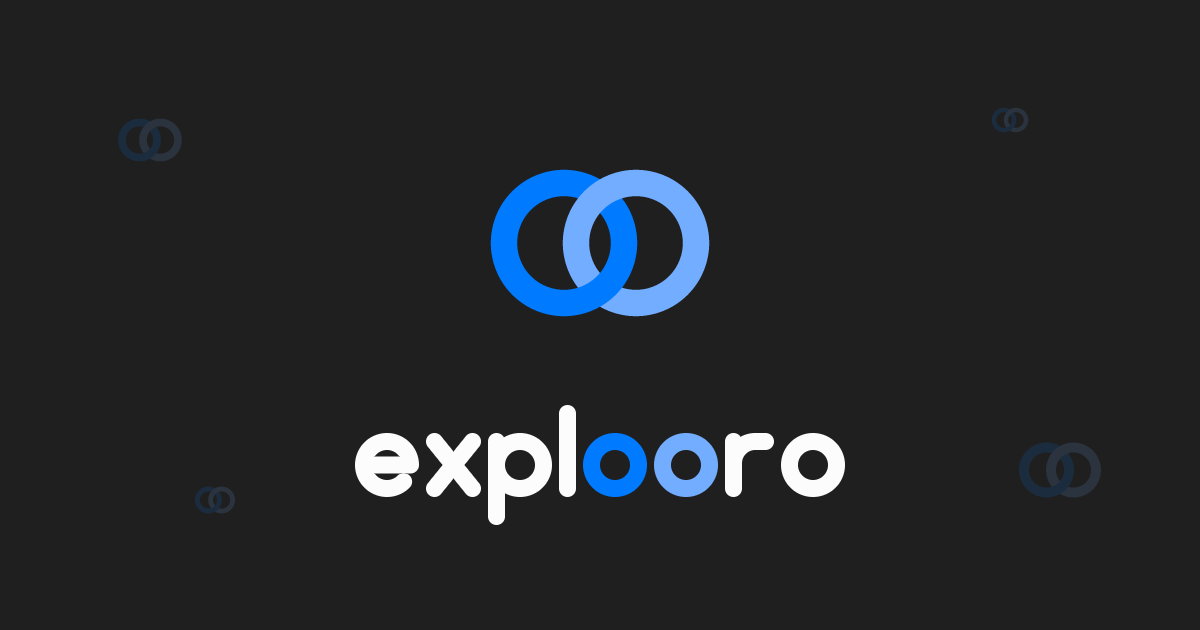
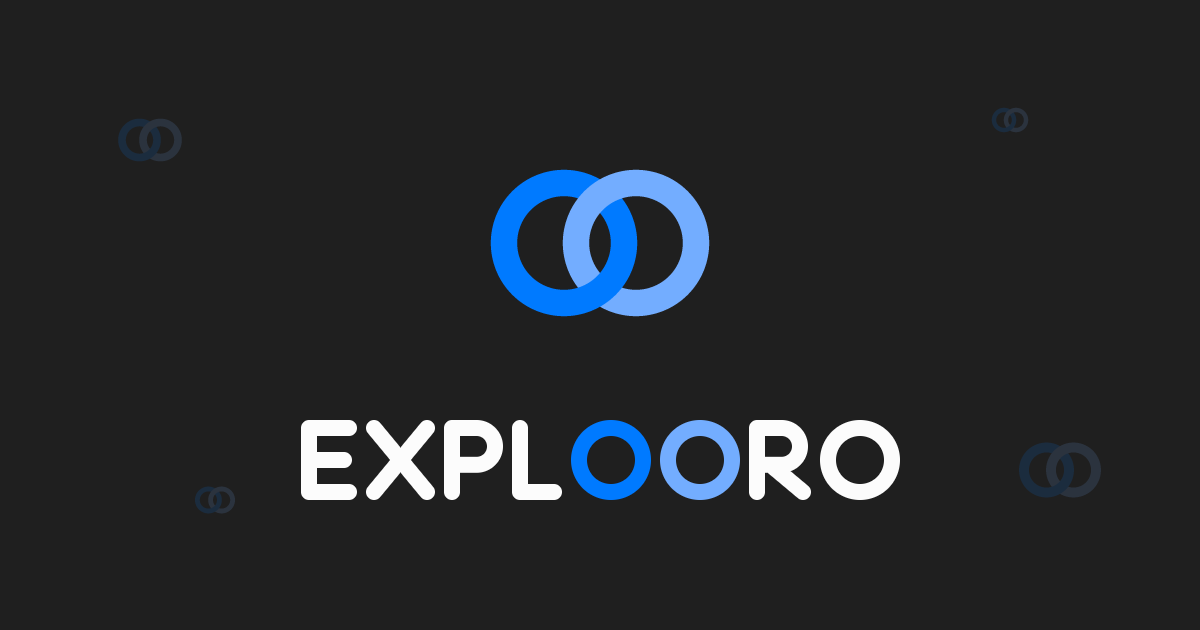
feat(brand): wordmark is capital EXPLOORO in Poppins 700
The owner compared capital and lowercase on packaging mock-ups and chose
capitals: a capital O is a full-height circle, so the "OO" matches the
ring mark in size, where a lowercase o was only the x-height. The font
subset now holds the six capitals (888 bytes), the topbar keeps 20px
(O 16px beside 17px rings), and the link-preview banner is redrawn in
capitals. Screen readers still hear "Explooro" once.

Changed region(s): [[0.2467, 0.6333, 0.7708, 0.8444]]

diff --git a/client/src/components/ui/icons.ts b/client/src/components/ui/icons.ts
@@ -256,8 +256,10 @@ export function getExplooroLogoSvg({ size = 28, className = 'explooro-logo-mark'
 }
 
 /**
- * The Explooro wordmark: lowercase "explooro" in Poppins 700 (the 'Explooro Wordmark' face in
- * typography.css), its "oo" in the two ring colours of the mark beside it. Text after the name
+ * The Explooro wordmark: capital "EXPLOORO" in Poppins 700 (the 'Explooro Wordmark' face in
+ * typography.css), its "OO" in the two ring colours of the mark beside it. WHY capitals (owner
+ * chose them over lowercase 2026-11-20): a capital O is a full-height circle, so the "OO" matches
+ * the rings in size; a lowercase o is only the x-height and the rings read as a separate badge. Text after the name
  * ("Explooro Staff 2FA") stays in the page's own font.
  *
  * WHY role="img" with a label and the letters aria-hidden (owner chose the design 2026-11-20): the
@@ -266,7 +268,7 @@ export function getExplooroLogoSvg({ size = 28, className = 'explooro-logo-mark'
  */
 export function formatExplooroBrandText(text = 'Explooro'): string {
   if (/^explooro/i.test(text)) {
-    const word = `<span class="brand-wordmark" role="img" aria-label="Explooro"><span aria-hidden="true">expl<span class="brand-text__accent">o</span><span class="brand-text__accent brand-text__accent--2">o</span>ro</span></span>`;
+    const word = `<span class="brand-wordmark" role="img" aria-label="Explooro"><span aria-hidden="true">EXPL<span class="brand-text__accent">O</span><span class="brand-text__accent brand-text__accent--2">O</span>RO</span></span>`;
     return `${word}${text.slice(8)}`;
   }
   if (text.length >= 5) {

diff --git a/client/src/styles/typography.css b/client/src/styles/typography.css
@@ -44,15 +44,15 @@
     U+1CE1, U+1CEA, U+1CED, U+1CF2, U+1CF5-1CF7, U+200C-200D, U+20B9, U+25CC, U+A8F1;
 }
 
-/* The wordmark's face: Poppins 700 (SIL Open Font License 1.1), subset to the six letters of
-   "explooro" (916 bytes), so it costs one tiny request and nothing else on the page uses it. */
+/* The wordmark's face: Poppins 700 (SIL Open Font License 1.1), subset to the six capitals of
+   "EXPLOORO" (888 bytes), so it costs one tiny request and nothing else on the page uses it. */
 @font-face {
   font-family: 'Explooro Wordmark';
   font-style: normal;
   font-weight: 700;
   font-display: swap;
   src: url('/fonts/poppins-700-wordmark.woff2') format('woff2');
-  unicode-range: U+0065, U+006C, U+006F-0070, U+0072, U+0078;
+  unicode-range: U+0045, U+004C, U+004F-0050, U+0052, U+0058;
 }
 
 /* ---------------------------------------------------------------------
@@ -262,11 +262,11 @@ td,
 .brand-wordmark span {
   font-family: 'Explooro Wordmark', var(--font-latin);
   font-weight: 700;
-  letter-spacing: -0.02em;
+  letter-spacing: 0.01em;
   text-transform: none;
 }
 
-/* Its "oo" takes the two ring colours of the mark (reset.css picks them per light/dark mode);
+/* Its "OO" takes the two ring colours of the mark (reset.css picks them per light/dark mode);
    a hand-picked logo colour from Theme Studio (--logo-star) wins over the first. */
 .brand-text__accent,
 .brand-accent,

diff --git a/client/src/styles/components/shell.css b/client/src/styles/components/shell.css
@@ -11,8 +11,8 @@
 .topbar__brand { display: flex; align-items: center; gap: var(--space-1); font-weight: 700; font-size: var(--tb-brand-font, 20px); letter-spacing: -0.02em; color: var(--navbar-text, var(--text-primary)); text-decoration: none; margin-right: var(--space-2); cursor: pointer; user-select: none; transition: color var(--dur-fast) var(--ease-standard), font-size var(--dur-base) var(--ease-standard); }
 .topbar__brand:hover { color: var(--brand); }
 /* WHY the wordmark is 20px beside the 28px mark (17px beside 24px when scrolled): the mark's rings
-   are the "oo" of the word, so the letters' ascender must reach the rings' height (~61% of the mark)
-   or the rings read as a heavier, separate badge. At the old 17px the "o" was 10px against 17px rings. */
+   are the "OO" of the word, so a capital O (~0.8em in Poppins 700) must come close to the rings'
+   height (~61% of the mark): 16px against 17px rings. Any smaller and the rings read as a separate badge. */
 .topbar__brand svg { flex: none; width: var(--tb-brand-icon, 28px); height: var(--tb-brand-icon, 28px); transition: width var(--dur-base) var(--ease-standard), height var(--dur-base) var(--ease-standard); }
 .topbar__auth-buttons { display: flex; align-items: center; gap: var(--space-2); }
 .app-shell__footer-slot { grid-area: footer; min-width: 0; }

diff --git a/client/test/publicImages.test.js b/client/test/publicImages.test.js
@@ -129,9 +129,9 @@ describe('link-preview image (og:image)', () => {
 
     assert.deepEqual(px(0, 0), rgba(palette.neutral[900]), 'canvas is the theme\'s dark ink');
     assert.deepEqual(px(...at(glyphs[0])), rgba(palette.neutral[0]), 'wordmark ink');
-    assert.deepEqual(px(...at(glyphs[4])), rgba(ring1), 'the first o of "oo" in the first ring colour, as the top bar draws it');
-    assert.deepEqual(px(...at(glyphs[5])), rgba(ring2), 'the second o in the second ring colour');
-    assert.equal([...glyphs].length, 8, 'eight letters: explooro');
+    assert.deepEqual(px(...at(glyphs[4])), rgba(ring1), 'the first O of "OO" in the first ring colour, as the top bar draws it');
+    assert.deepEqual(px(...at(glyphs[5])), rgba(ring2), 'the second O in the second ring colour');
+    assert.equal([...glyphs].length, 8, 'eight letters: EXPLOORO');
     // The rings are 0..100 across MARK_SIZE; (10, 50) is the left ring's outer edge, (90, 50) the right one's.
     const markAt = (x, y) => [
       OG_WIDTH / 2 - OG_LAYOUT.MARK_SIZE / 2 + Math.round((x / 100) * OG_LAYOUT.MARK_SIZE),

diff --git a/client/test/a11yAuditRules.test.js b/client/test/a11yAuditRules.test.js
@@ -46,8 +46,8 @@ test('A11y Auditor & Form Controls Accessibility Invariants', async (t) => {
   await t.test('3. formatExplooroBrandText reads as one labelled name, its coloured letters hidden', () => {
     // WHY: hiding only the accent letter made a screen reader say "EXPLORO".
     const brandHtml = formatExplooroBrandText('Explooro Staff 2FA');
-    assert.match(brandHtml, /^<span class="brand-wordmark" role="img" aria-label="Explooro"><span aria-hidden="true">expl/);
-    assert.equal(brandHtml.replace(/<[^>]+>/g, ''), 'explooro Staff 2FA', 'the letters spell the name and the suffix stays');
+    assert.match(brandHtml, /^<span class="brand-wordmark" role="img" aria-label="Explooro"><span aria-hidden="true">EXPL/);
+    assert.equal(brandHtml.replace(/<[^>]+>/g, ''), 'EXPLOORO Staff 2FA', 'the letters spell the name and the suffix stays');
     assert.ok(brandHtml.endsWith(' Staff 2FA'), 'text after the name is outside the wordmark font');
   });
 
